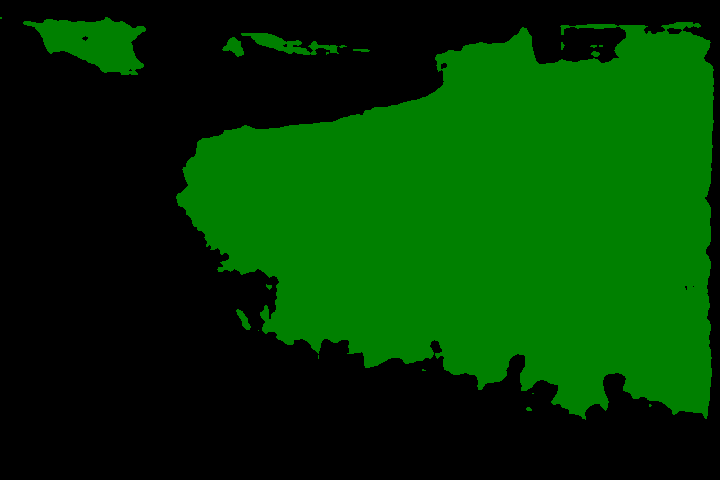
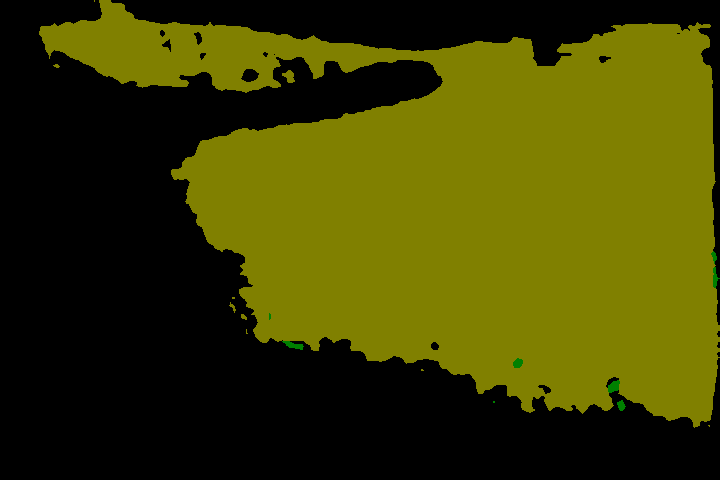
add green net samples

diff --git a/scripts/rename_label.py b/scripts/rename_label.py
@@ -1,0 +1,52 @@
+"""修改数据集的类别标签。
+
+数据集分三类：
+1) A*: 条纹塑料布, 类别1
+2) B*: 绿色防尘网, 类别2
+3) C*: 黑色防晒网, 类别3
+"""
+
+from PIL import Image
+import os
+from tqdm import tqdm
+
+class BreakLoopException(Exception):
+    pass
+
+def letter_to_number(letter):
+    """将字母 A~Z 转换为 1~26"""
+    letter = letter.upper()   # 确保处理的是大写字母
+    if 'A' <= letter <= 'Z':  # 确保是字母
+        return ord(letter) - ord('A') + 1
+    else:
+        raise ValueError("Input must be a letter between A and Z")
+
+if __name__ == '__main__':
+    input_folder = 'datasets/data/VOC_GroundCover/SegmentationClass'
+    output_folder = 'datasets/data/VOC_GroundCover/SegmentationClass_M'
+
+    if not os.path.exists(output_folder):
+        os.makedirs(output_folder)
+
+    image_files = [f for f in os.listdir(input_folder) if f.endswith('.png')]  # 获取文件夹中的所有图像文件
+
+    for image_file in tqdm(image_files, desc="Processing images", unit="image"):
+        image_path = os.path.join(input_folder, image_file)
+        image = Image.open(image_path)
+
+        pixels = image.load()  # 转换为 numpy 数组以便进行像素级别操作
+        
+        num = letter_to_number(image_file[0])
+
+        try:
+            for i in range(image.width):
+                for j in range(image.height):
+                    if pixels[i, j] != 0 and pixels[i, j] != num:
+                        pixels[i, j] = num
+                    elif pixels[i, j] == num:
+                        raise BreakLoopException
+        except BreakLoopException:
+            pass
+
+        output_image_path = os.path.join(output_folder, image_file)
+        image.save(output_image_path)

diff --git a/scripts/split_dataset.py b/scripts/split_dataset.py
@@ -1,3 +1,6 @@
+"""将数据集中的每个类别按照 7:3 划分训练和测试集。
+"""
+
 import os
 import random
 
@@ -9,26 +12,31 @@ def split_images(data_dir):
     # 获取图片文件名（不含后缀）
     all_images = [f[:-4] for f in os.listdir(jpeg_images_dir) if f.endswith('.jpg')]
     a_images = [f for f in all_images if f.startswith('A')]
+    b_images = [f for f in all_images if f.startswith('B')]
     c_images = [f for f in all_images if f.startswith('C')]
     print(len(a_images))
+    print(len(b_images))
     print(len(c_images))
+    
     # 打乱文件名
     random.shuffle(a_images)
+    random.shuffle(b_images)
     random.shuffle(c_images)
 
     # 计算分割点
     a_split = int(len(a_images) * 0.7)
-    b_split = int(len(c_images) * 0.7)
+    b_split = int(len(b_images) * 0.7)
+    c_split = int(len(c_images) * 0.7)
 
     # 写入文件
     train_file = os.path.join(imagesets_dir, 'train.txt')
     val_file = os.path.join(imagesets_dir, 'val.txt')
 
     with open(train_file, 'w') as f:
-        f.writelines(f'{name}\n' for name in a_images[:a_split] + c_images[:b_split])
+        f.writelines(f'{name}\n' for name in a_images[:a_split] + b_images[:b_split] + c_images[:c_split])
 
     with open(val_file, 'w') as f:
-        f.writelines(f'{name}\n' for name in a_images[a_split:] + c_images[b_split:])
+        f.writelines(f'{name}\n' for name in a_images[a_split:] + b_images[b_split:] + c_images[c_split:])
 
     print(f"已生成 {train_file} 和 {val_file}")
 

diff --git a/main.py b/main.py
@@ -238,7 +238,7 @@ def validate(opts, model, loader, device, metrics, ret_samples_ids=None):
 def main():
     opts = get_argparser().parse_args()
     if  opts.dataset.lower() == 'voc_gc':
-        opts.num_classes = 3
+        opts.num_classes = 4
     elif opts.dataset.lower() == 'voc':
         opts.num_classes = 21
     elif opts.dataset.lower() == 'cityscapes':

diff --git a/predict.py b/predict.py
@@ -61,7 +61,7 @@ def get_argparser():
 def main():
     opts = get_argparser().parse_args()
     if opts.dataset.lower() == 'voc_gc':
-        opts.num_classes = 3
+        opts.num_classes = 4
         decode_fn = VOCGC_Segmentation.decode_target
     if opts.dataset.lower() == 'voc':
         opts.num_classes = 21

diff --git a/datasets/voc_groundcover.py b/datasets/voc_groundcover.py
@@ -11,6 +11,7 @@ from torchvision.datasets.utils import download_url, check_integrity
 
 CLASSES = {
     'stripe',  # 条纹塑料布
+    'green',   # 绿色防尘网
     'black'    # 黑色防晒网
 }
 

diff --git a/README.md b/README.md
@@ -19,22 +19,33 @@ python predict.py --input datasets/data/VOC_GroundCover/JPEGImages/C018.jpg  --d
 
 测试结果图：
 <div>
-<img src="./samples/A021.jpg"  width="20%">
-<img src="./samples/A021.png"  width="20%">
-<img src="./samples/C018.jpg"  width="20%">
-<img src="./samples/C018.png"  width="20%">
+<img src="./samples/A021.jpg"  width="15%">
+<img src="./samples/A021.png"  width="15%">
+<img src="./samples/B027.jpg"  width="15%">
+<img src="./samples/B027.png"  width="15%">
+<img src="./samples/C018.jpg"  width="15%">
+<img src="./samples/C018.png"  width="15%">
 </div>
 
 <div>
-<img src="./samples/A061.jpg"  width="20%">
-<img src="./samples/A061.png"  width="20%">
-<img src="./samples/C033.jpg"  width="20%">
-<img src="./samples/C033.png"  width="20%">
+<img src="./samples/A061.jpg"  width="15%">
+<img src="./samples/A061.png"  width="15%">
+<img src="./samples/B186.jpg"  width="15%">
+<img src="./samples/B186.png"  width="15%">
+<img src="./samples/C033.jpg"  width="15%">
+<img src="./samples/C033.png"  width="15%">
 </div>
 
 <div>
-<img src="./samples/A083.jpg"  width="20%">
-<img src="./samples/A083.png"  width="20%">
-<img src="./samples/C166.jpg"  width="20%">
-<img src="./samples/C166.png"  width="20%">
+<img src="./samples/A083.jpg"  width="15%">
+<img src="./samples/A083.png"  width="15%">
+<img src="./samples/B055.jpg"  width="15%">
+<img src="./samples/B055.png"  width="15%">
+<img src="./samples/C166.jpg"  width="15%">
+<img src="./samples/C166.png"  width="15%">
 </div>
+
+目前已用的数据增强：
+1. RandomScale
+2. RandomCrop
+3. RandomHorizontalFlip
